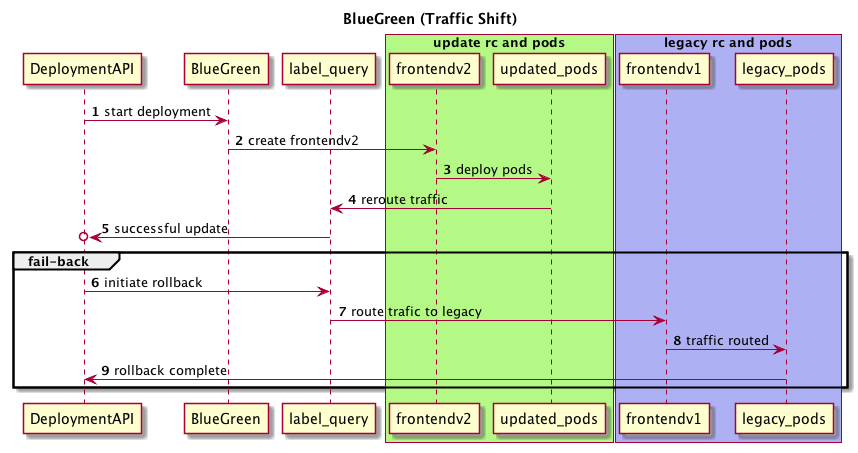
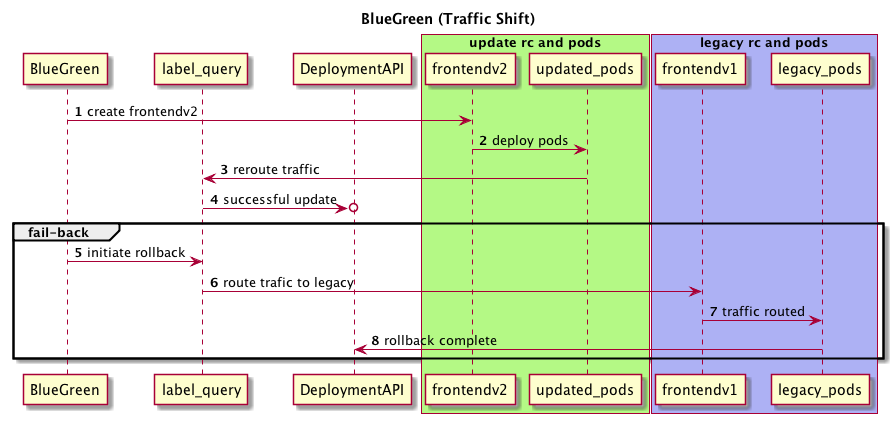
updates

Changed region(s): [[0.0, 0.0307, 1.0, 0.9811], [0.2121, 0.3679, 0.3636, 0.4292]]

diff --git a/ansible_training/ansible_lab01.tex b/ansible_training/ansible_lab01.tex
@@ -1,0 +1,32 @@
+@startuml
+Title: Ansible, Module 01, Lab
+
+actor student
+
+autonumber
+group Install Ansible
+  student <-> apt: check dependencies
+  student <-> apt: ppa: ansible
+  student <-> apt: repo update
+  student <-> apt: ansible install
+  student <-> ansible: ansible --version
+  ansible <-> student: success
+end group
+group Test Ansible
+  student <-> ansible: ansible --version
+  student <-> ansible: display ansible-doc
+  student <-> ansible: review ping module
+  student <-> ansible: define quick hosts (localhost)
+  student <-> ansible: list hosts
+  student -x ansible: use ansible ping module
+  student <-> localhost: ssh localhost, add fingerprint
+  student <-> ansible: use ping module (define user, prompt password)
+end group
+group ssh configure
+  student <-> localhost: Generate ssh key
+  student <-> localhost: Copy ssh key to remote host
+  student <-> localhost: ssh localhost (no password)
+  student <-> ansible: use ansible ping module
+  ansible <-> student: successful ping
+end group
+@enduml

diff --git a/ansible_training/ansible_lab02.tex b/ansible_training/ansible_lab02.tex
@@ -1,0 +1,32 @@
+@startuml
+Title: Ansible, Module 01, Lab
+
+actor student
+
+autonumber
+group Install Ansible
+  student <-> apt: check dependencies
+  student <-> apt: ppa: ansible
+  student <-> apt: repo update
+  student <-> apt: ansible install
+  student <-> ansible: ansible --version
+  ansible <-> student: success
+end group
+group Test Ansible
+  student <-> ansible: ansible --version
+  student <-> ansible: display ansible-doc
+  student <-> ansible: review ping module
+  student <-> ansible: define quick hosts (localhost)
+  student <-> ansible: list hosts
+  student -x ansible: use ansible ping module
+  student <-> localhost: ssh localhost, add fingerprint
+  student <-> ansible: use ping module (define user, prompt password)
+end group
+group ssh configure
+  student <-> localhost: Generate ssh key
+  student <-> localhost: Copy ssh key to remote host
+  student <-> localhost: ssh localhost (no password)
+  student <-> ansible: use ansible ping module
+  ansible <-> student: successful ping
+end group
+@enduml

diff --git a/blue-green-doc/traffic_shift.tex b/blue-green-doc/traffic_shift.tex
@@ -2,13 +2,12 @@
 title BlueGreen (Traffic Shift)
 
 autonumber
-DeploymentAPI -> BlueGreen: start deployment
 BlueGreen -> frontendv2: create frontendv2
 frontendv2 -> updated_pods: deploy pods
 updated_pods -> label_query: reroute traffic
 label_query ->o DeploymentAPI: successful update
 group fail-back
-  DeploymentAPI -> label_query: initiate rollback
+  BlueGreen -> label_query: initiate rollback
   label_query -> frontendv1: route trafic to legacy
   frontendv1 -> legacy_pods: traffic routed
   legacy_pods -> DeploymentAPI: rollback complete

diff --git a/ansible_training/ansible_sequences.tex b/ansible_training/ansible_sequences.tex
@@ -1,0 +1,25 @@
+@startuml
+
+title: ansible flow
+
+actor human
+
+human -> ansible
+ansible -> ansible_play
+ansible_play -> modules
+ansible_play -> vars
+vars -> modules
+modules -> python
+python -> ssh
+ssh -> target
+ssh -> copy_modules
+target -> copy_modules
+copy_modules -> execute_work
+execute_work -> copy_modules
+copy_modules -> delete_modules
+delete_modules -> ssh
+ssh -> python
+python -> ansible
+ansible -> human
+
+@enduml

diff --git a/ansible_training/ansible_lab01-01.tex b/ansible_training/ansible_lab01-01.tex
@@ -1,0 +1,17 @@
+@startuml
+Title: Install Ansible
+actor student
+
+autonumber
+
+group Install Ansible
+  student -> dependencies
+  dependencies -> student: python, Internet
+  student -> add_apt_repo: ppa: ansible
+  student -> apt_update: apt-get update
+  student -> apt_install: apt-get install
+  student -> test_ansible: ansible --version
+  test_ansible -> student: success
+end group
+
+@enduml
